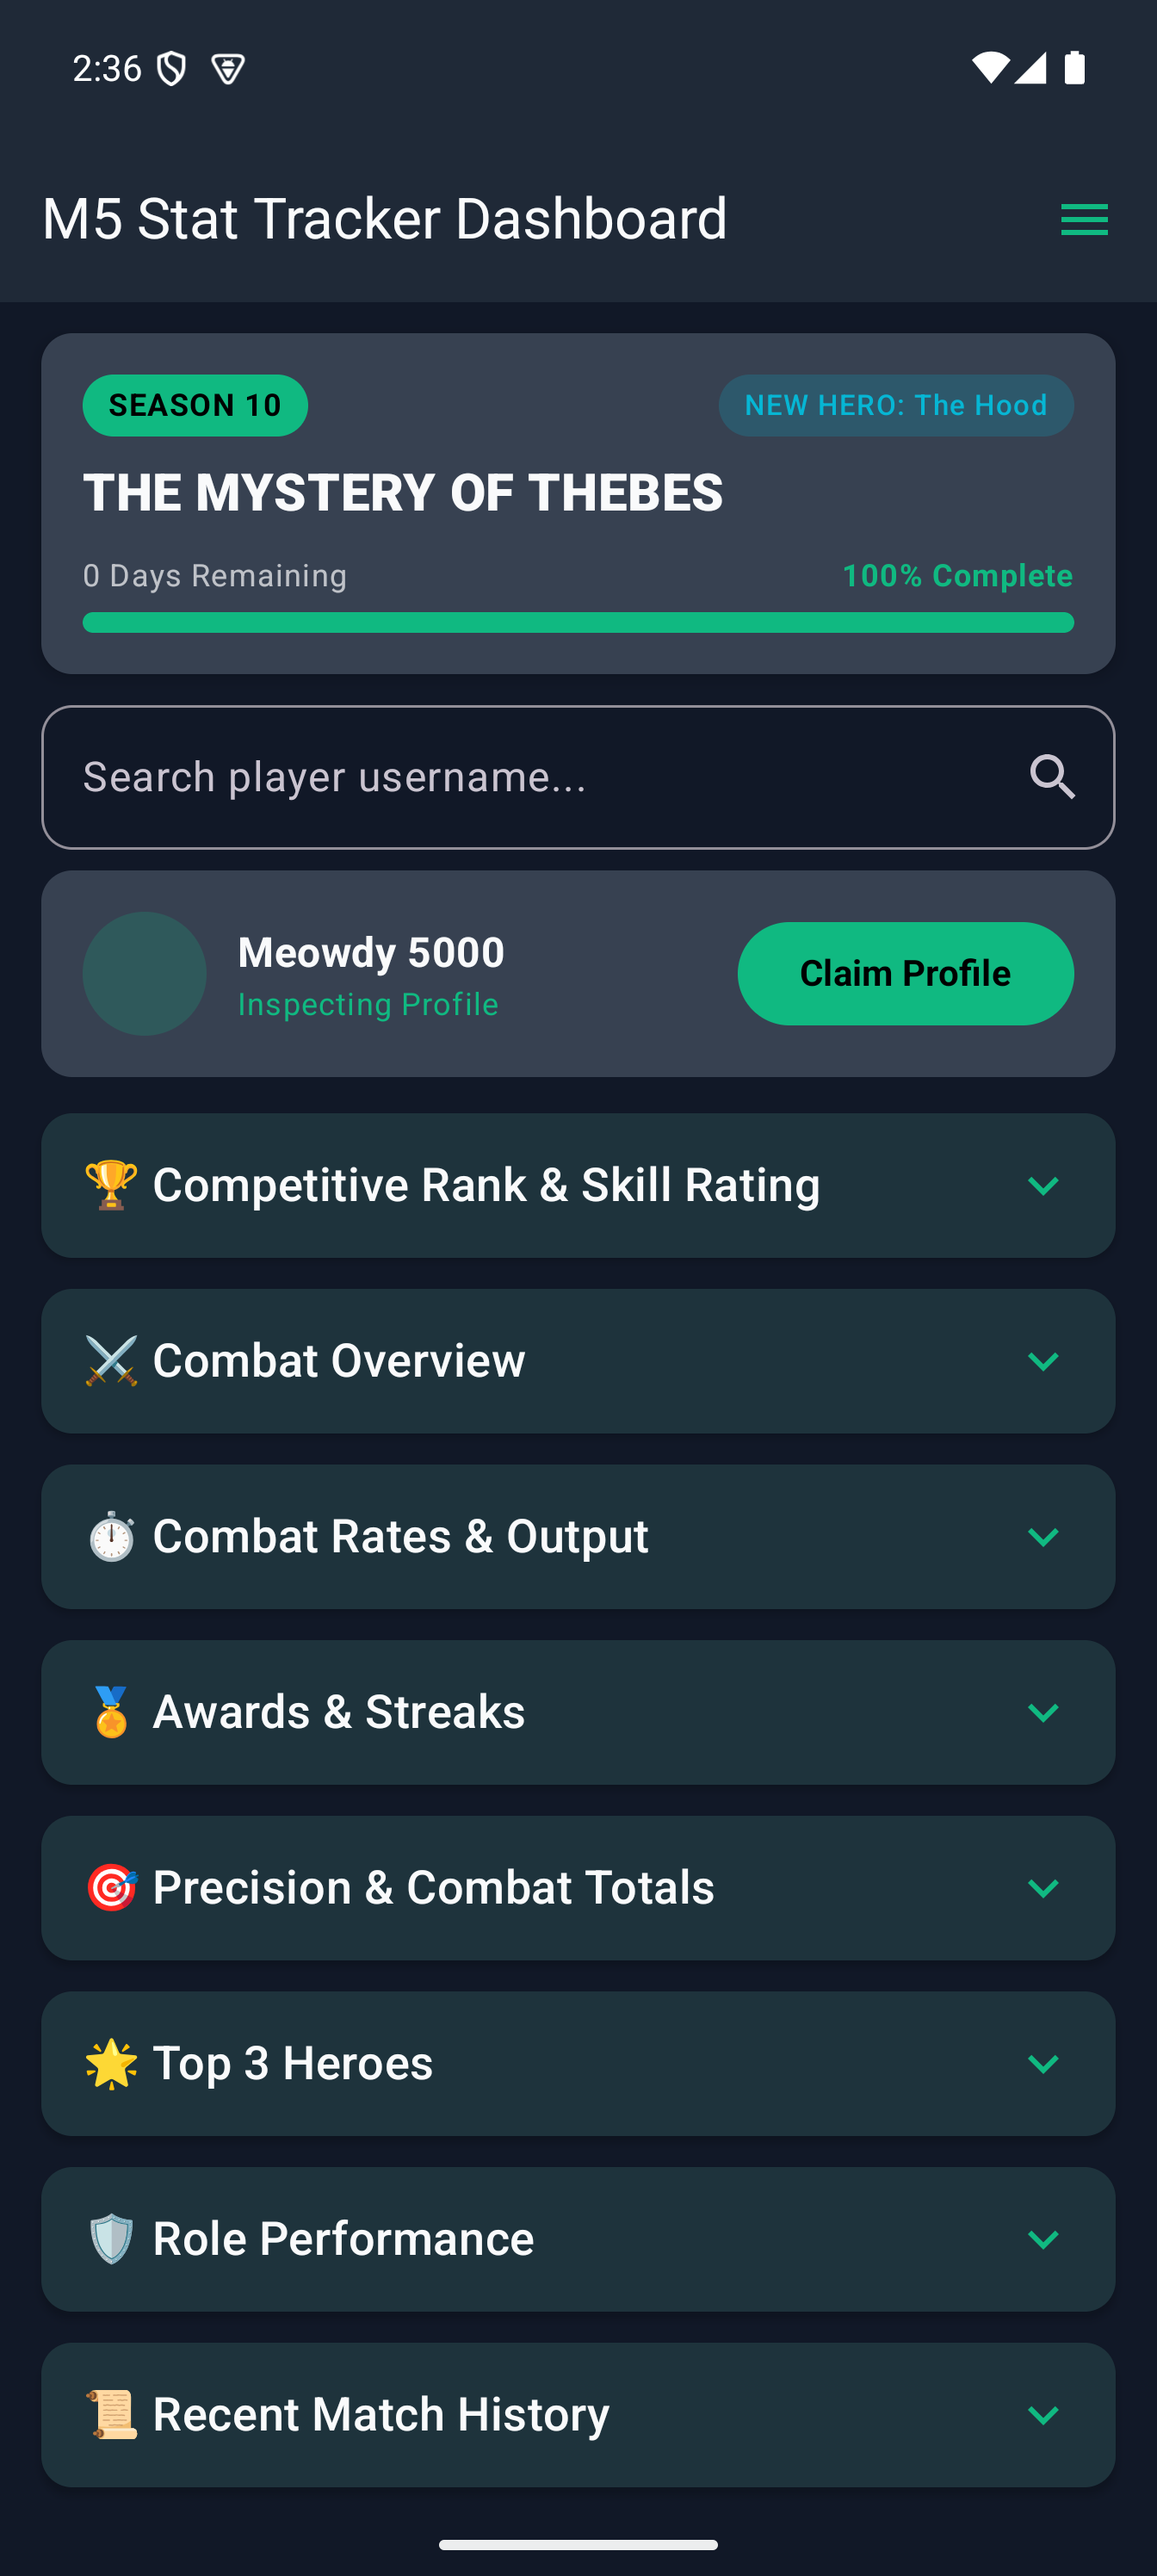
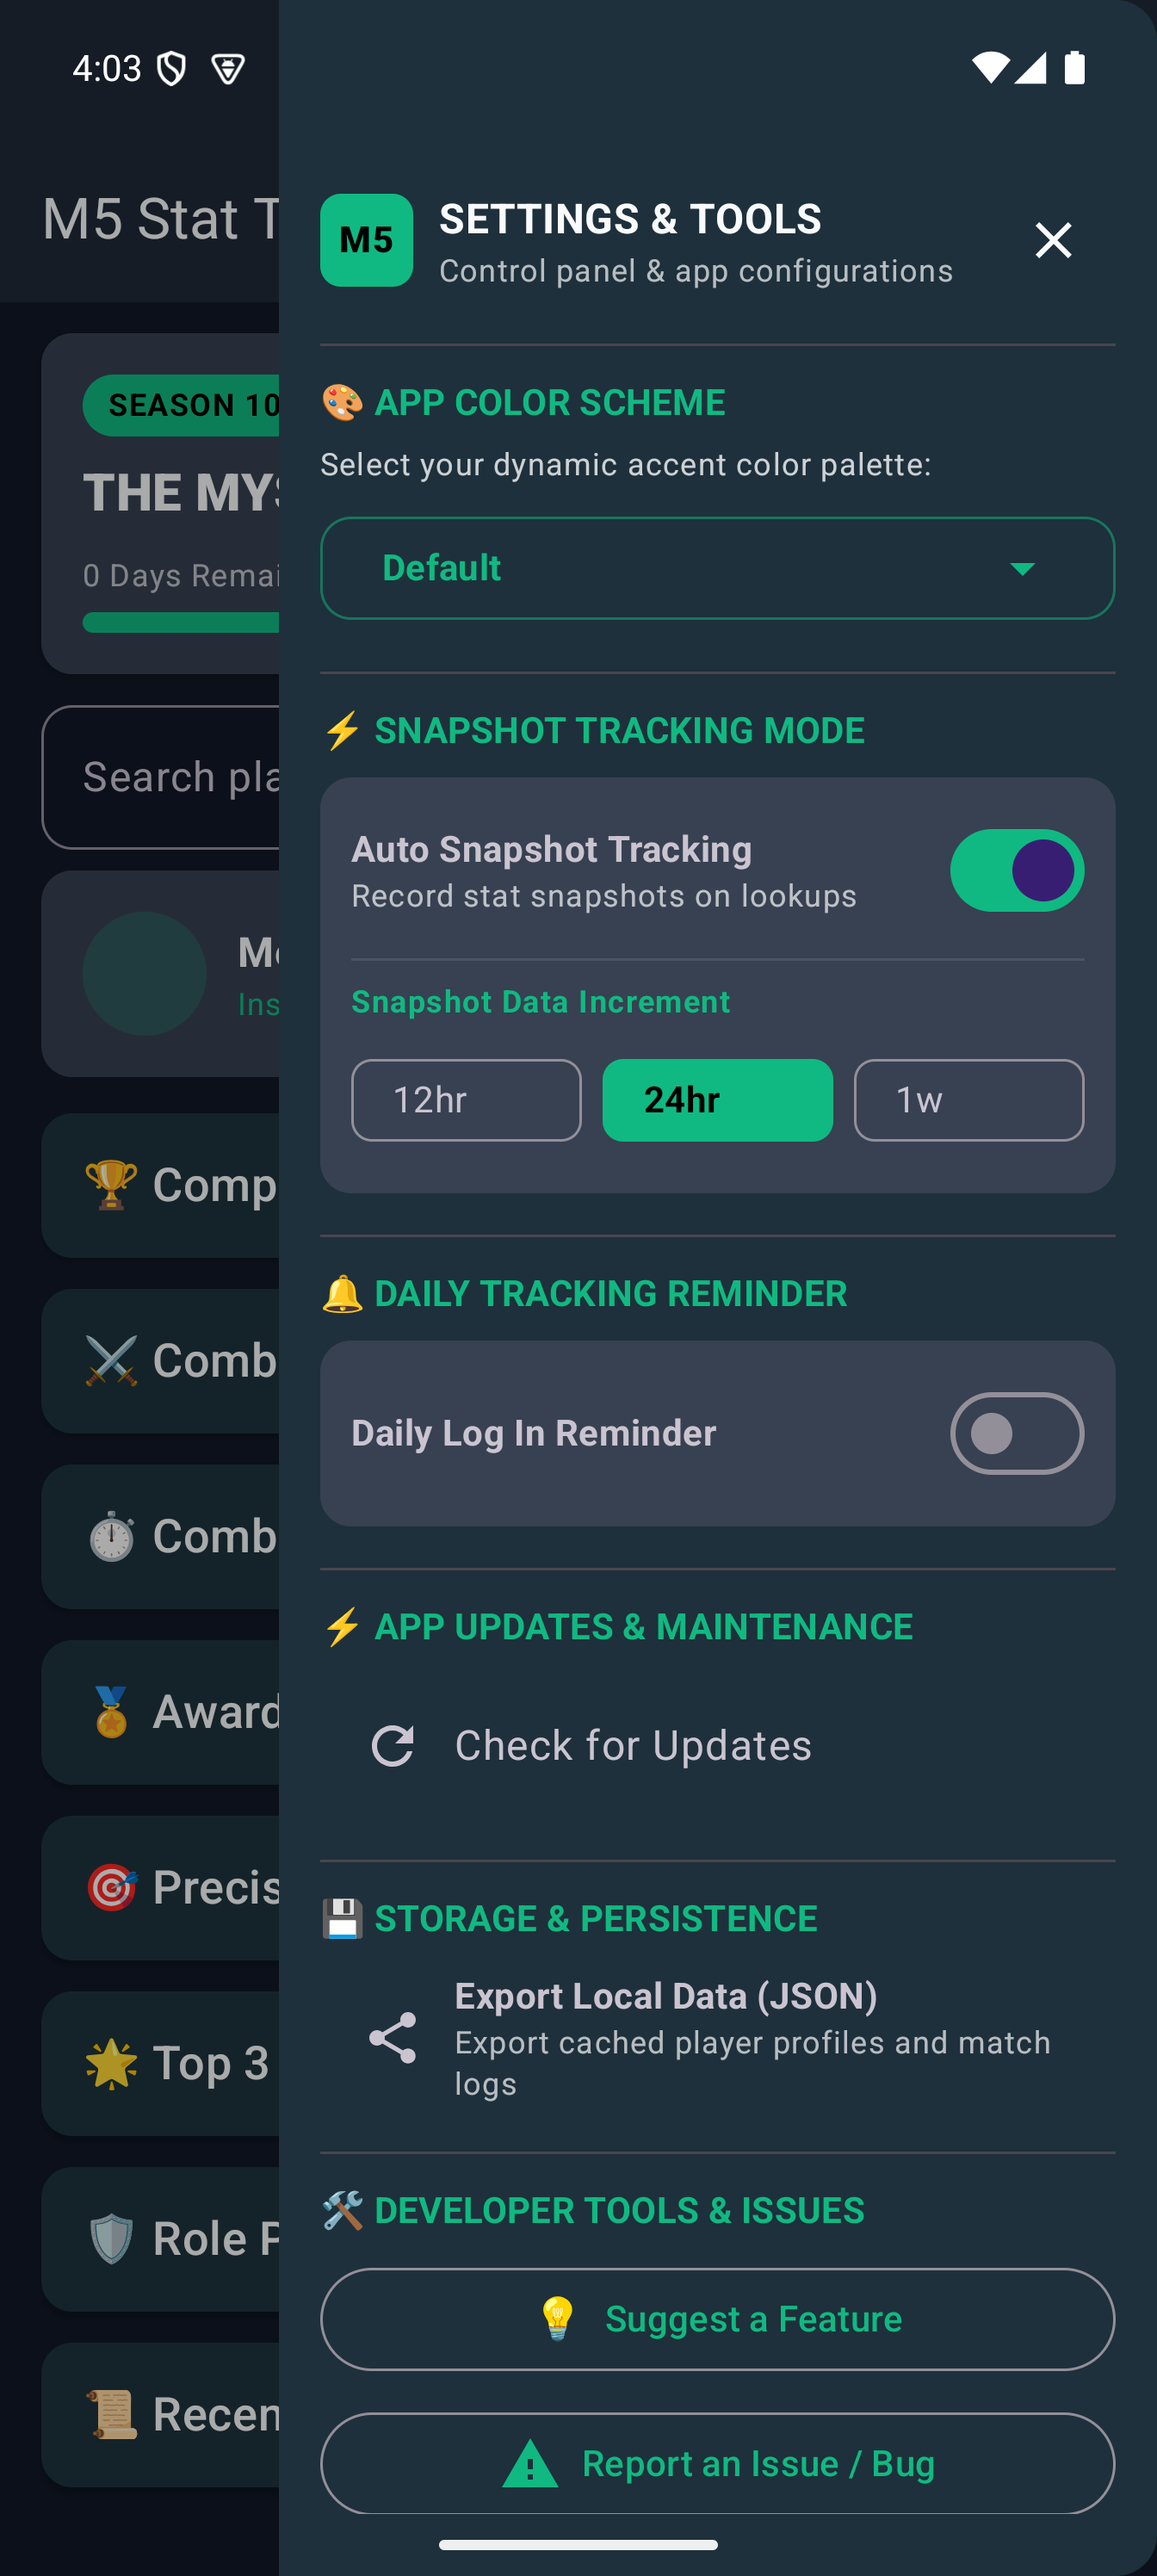
feat: Priority 1 - drawer header cleanup, standalone unclaim button, and tracking frequency selector

diff --git a/frontend/android/app/src/main/java/com/meowdy5000/stattracker/ui/dashboard/DashboardScreen.kt b/frontend/android/app/src/main/java/com/meowdy5000/stattracker/ui/dashboard/DashboardScreen.kt
@@ -811,66 +811,41 @@ fun DashboardScreen(
                             HorizontalDivider()
                             Spacer(Modifier.height(12.dp))
 
-                            // 2. Snapshot Tracking Mode
-                            Text("⚡ SNAPSHOT TRACKING MODE", fontWeight = FontWeight.Bold, style = MaterialTheme.typography.labelLarge, color = MaterialTheme.colorScheme.primary)
+                            // 3. Tracking Frequency
+                            Text("⚡ TRACKING FREQUENCY", fontWeight = FontWeight.Bold, style = MaterialTheme.typography.labelLarge, color = MaterialTheme.colorScheme.primary)
                             Spacer(Modifier.height(8.dp))
                             Card(
                                 colors = CardDefaults.cardColors(containerColor = MaterialTheme.colorScheme.surfaceVariant),
                                 modifier = Modifier.fillMaxWidth()
                             ) {
-                                Column(modifier = Modifier.fillMaxWidth().padding(12.dp)) {
+                                Column(Modifier.padding(12.dp)) {
+                                    Text(
+                                        text = "Select snapshot frequency for your claimed profile.",
+                                        style = MaterialTheme.typography.bodySmall,
+                                        color = MaterialTheme.colorScheme.onSurfaceVariant
+                                    )
+                                    Spacer(Modifier.height(8.dp))
+
+                                    val options = listOf("12 hrs", "24 hrs", "1 week", "Off")
                                     Row(
                                         modifier = Modifier.fillMaxWidth(),
-                                        horizontalArrangement = Arrangement.SpaceBetween,
-                                        verticalAlignment = Alignment.CenterVertically
+                                        horizontalArrangement = Arrangement.spacedBy(4.dp)
                                     ) {
-                                        Column(Modifier.weight(1f)) {
-                                            Text("Auto Snapshot Tracking", fontWeight = FontWeight.Bold, style = MaterialTheme.typography.bodyMedium)
-                                            Text("Record stat snapshots on lookups", style = MaterialTheme.typography.bodySmall, color = MaterialTheme.colorScheme.onSurface.copy(alpha = 0.7f))
-                                        }
-                                        Switch(
-                                            checked = autoSnapshotEnabled,
-                                            onCheckedChange = {
-                                                autoSnapshotEnabled = it
-                                                prefs.edit().putBoolean("auto_snapshot_enabled", it).apply()
-                                            }
-                                        )
-                                    }
-
-                                    if (autoSnapshotEnabled) {
-                                        Spacer(Modifier.height(10.dp))
-                                        HorizontalDivider(color = MaterialTheme.colorScheme.onSurface.copy(alpha = 0.1f))
-                                        Spacer(Modifier.height(8.dp))
-
-                                        Text(
-                                            text = "Snapshot Data Increment",
-                                            style = MaterialTheme.typography.labelMedium,
-                                            fontWeight = FontWeight.Bold,
-                                            color = MaterialTheme.colorScheme.primary
-                                        )
-                                        Spacer(Modifier.height(6.dp))
-
-                                        val intervals = listOf("12hr" to "12 Hours", "24hr" to "24 Hours", "1w" to "1 Week")
-                                        Row(
-                                            modifier = Modifier.fillMaxWidth(),
-                                            horizontalArrangement = Arrangement.spacedBy(8.dp)
-                                        ) {
-                                            intervals.forEach { (key, _) ->
-                                                val isSelected = snapshotInterval == key
-                                                FilterChip(
-                                                    selected = isSelected,
-                                                    onClick = {
-                                                        snapshotInterval = key
-                                                        prefs.edit().putString("snapshot_interval", key).apply()
-                                                    },
-                                                    label = { Text(key, fontWeight = if (isSelected) FontWeight.Bold else FontWeight.Normal) },
-                                                    modifier = Modifier.weight(1f),
-                                                    colors = FilterChipDefaults.filterChipColors(
-                                                        selectedContainerColor = MaterialTheme.colorScheme.primary,
-                                                        selectedLabelColor = Color.Black
-                                                    )
+                                        options.forEach { opt ->
+                                            val isSelected = snapshotInterval == opt
+                                            FilterChip(
+                                                selected = isSelected,
+                                                onClick = {
+                                                    snapshotInterval = opt
+                                                    prefs.edit().putString("snapshot_interval", opt).apply()
+                                                },
+                                                label = { Text(opt, fontSize = 11.sp, fontWeight = if (isSelected) FontWeight.Bold else FontWeight.Normal) },
+                                                modifier = Modifier.weight(1f),
+                                                colors = FilterChipDefaults.filterChipColors(
+                                                    selectedContainerColor = MaterialTheme.colorScheme.primary,
+                                                    selectedLabelColor = Color.Black
                                                 )
-                                            }
+                                            )
                                         }
                                     }
                                 }
